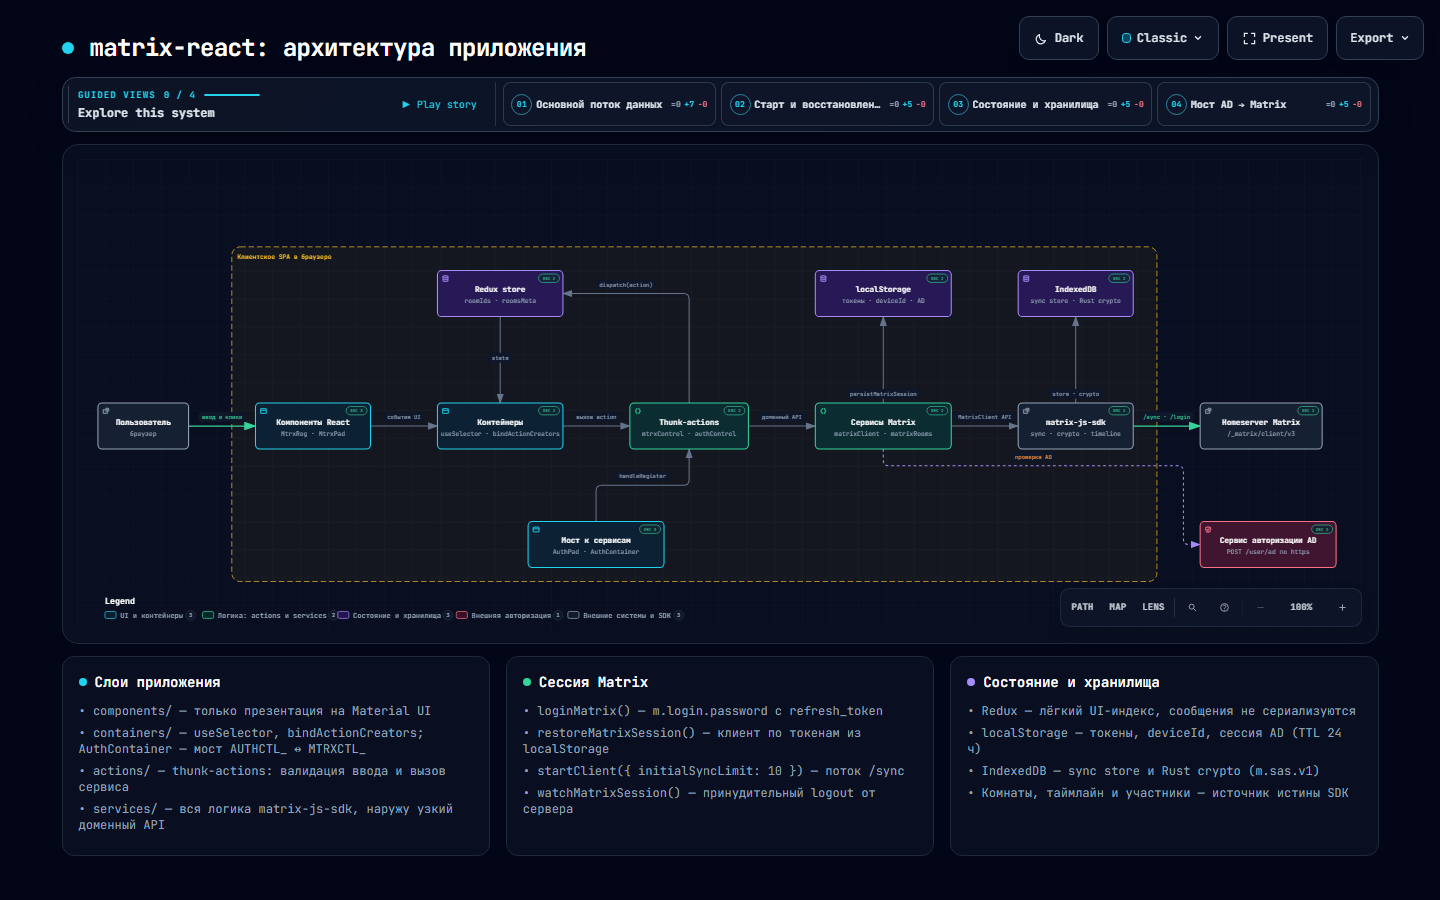
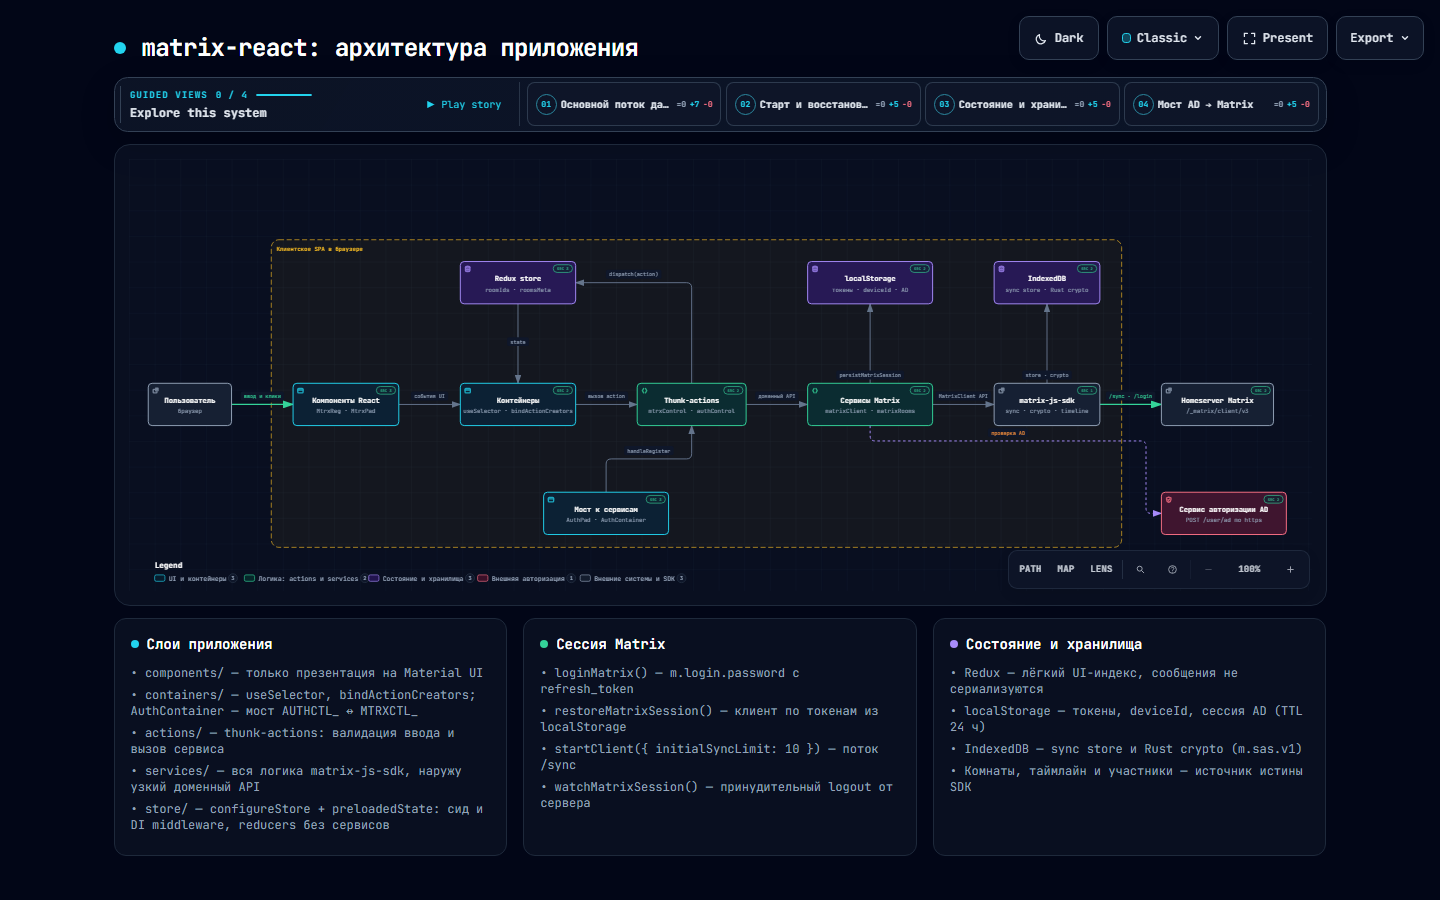
актуализировал документацию

diff --git a/docs/archify/matrix-react-architecture.html b/docs/archify/matrix-react-architecture.html
@@ -4841,7 +4841,7 @@
     </div>
 
     <script id="archify-guided-views-data" type="application/json">[{"id":"main-flow","label":"Основной поток данных","focus":["users","ui","containers","actions","services","sdk","homeserver"],"note":"Ввод пользователя проходит слои React → Redux → services → matrix-js-sdk и уходит на homeserver."},{"id":"session-start","label":"Старт и восстановление сессии","focus":["actions","services","storage","sdk","homeserver"],"note":"Вход по паролю или восстановление сохранённой сессии, затем /sync."},{"id":"state-and-storage","label":"Состояние и хранилища","focus":["store","containers","storage","idb","sdk"],"note":"Redux держит только UI-индекс, данные комнат живут в SDK и IndexedDB."},{"id":"bridge-ad-matrix","label":"Мост AD → Matrix","focus":["adauth","store","bridge","actions","services"],"note":"Сессия AD в Redux: AuthContainer берёт mtrx_login / mtrx_password и зовёт handleRegister."}]</script>
-    <script id="archify-source-evidence-data" type="application/json">{"schemaVersion":1,"verified":true,"repository":{"url":"https://github.com/ars-anosov/matrix-react","revision":"342a5cdc6bccf41a0ae6629d1aa7a3dcc6c840f1","shortRevision":"342a5cd"},"referenceCount":23,"nodes":{"ui":[{"path":"src/App.jsx","line":6,"label":"корневой layout","href":"https://github.com/ars-anosov/matrix-react/blob/342a5cdc6bccf41a0ae6629d1aa7a3dcc6c840f1/src/App.jsx#L6"},{"path":"src/components/MtrxPad.jsx","label":"чат","href":"https://github.com/ars-anosov/matrix-react/blob/342a5cdc6bccf41a0ae6629d1aa7a3dcc6c840f1/src/components/MtrxPad.jsx"},{"path":"src/components/MtrxReg.jsx","label":"вход","href":"https://github.com/ars-anosov/matrix-react/blob/342a5cdc6bccf41a0ae6629d1aa7a3dcc6c840f1/src/components/MtrxReg.jsx"}],"containers":[{"path":"src/containers/MtrxPadContainer.jsx","line":26,"href":"https://github.com/ars-anosov/matrix-react/blob/342a5cdc6bccf41a0ae6629d1aa7a3dcc6c840f1/src/containers/MtrxPadContainer.jsx#L26"},{"path":"src/containers/MtrxContainer.jsx","line":14,"href":"https://github.com/ars-anosov/matrix-react/blob/342a5cdc6bccf41a0ae6629d1aa7a3dcc6c840f1/src/containers/MtrxContainer.jsx#L14"}],"actions":[{"path":"src/actions/mtrxControlActions.js","line":117,"label":"handleRestoreSession","href":"https://github.com/ars-anosov/matrix-react/blob/342a5cdc6bccf41a0ae6629d1aa7a3dcc6c840f1/src/actions/mtrxControlActions.js#L117"},{"path":"src/actions/authControlActions.js","line":18,"label":"handleAdRegister","href":"https://github.com/ars-anosov/matrix-react/blob/342a5cdc6bccf41a0ae6629d1aa7a3dcc6c840f1/src/actions/authControlActions.js#L18"}],"store":[{"path":"src/reducers/mtrxControlRdcr.js","line":17,"label":"UI-индекс","href":"https://github.com/ars-anosov/matrix-react/blob/342a5cdc6bccf41a0ae6629d1aa7a3dcc6c840f1/src/reducers/mtrxControlRdcr.js#L17"},{"path":"src/store/configureStore.js","line":8,"href":"https://github.com/ars-anosov/matrix-react/blob/342a5cdc6bccf41a0ae6629d1aa7a3dcc6c840f1/src/store/configureStore.js#L8"}],"services":[{"path":"src/services/matrixClient.js","line":636,"label":"loginMatrix","href":"https://github.com/ars-anosov/matrix-react/blob/342a5cdc6bccf41a0ae6629d1aa7a3dcc6c840f1/src/services/matrixClient.js#L636"},{"path":"src/services/matrixRooms.js","line":285,"label":"watchRoomList","href":"https://github.com/ars-anosov/matrix-react/blob/342a5cdc6bccf41a0ae6629d1aa7a3dcc6c840f1/src/services/matrixRooms.js#L285"}],"sdk":[{"path":"src/services/matrixSdk.js","line":8,"label":"loadMatrixSdk","href":"https://github.com/ars-anosov/matrix-react/blob/342a5cdc6bccf41a0ae6629d1aa7a3dcc6c840f1/src/services/matrixSdk.js#L8"}],"homeserver":[{"path":"src/services/matrixClient.js","line":599,"label":"startClient","href":"https://github.com/ars-anosov/matrix-react/blob/342a5cdc6bccf41a0ae6629d1aa7a3dcc6c840f1/src/services/matrixClient.js#L599"},{"path":"src/services/matrixClient.js","line":643,"label":"loginRequest","href":"https://github.com/ars-anosov/matrix-react/blob/342a5cdc6bccf41a0ae6629d1aa7a3dcc6c840f1/src/services/matrixClient.js#L643"}],"storage":[{"path":"src/constants/storage.js","href":"https://github.com/ars-anosov/matrix-react/blob/342a5cdc6bccf41a0ae6629d1aa7a3dcc6c840f1/src/constants/storage.js"},{"path":"src/services/matrixClient.js","line":556,"label":"persistMatrixSession","href":"https://github.com/ars-anosov/matrix-react/blob/342a5cdc6bccf41a0ae6629d1aa7a3dcc6c840f1/src/services/matrixClient.js#L556"}],"idb":[{"path":"src/services/matrixClient.js","line":69,"label":"IndexedDBStore","href":"https://github.com/ars-anosov/matrix-react/blob/342a5cdc6bccf41a0ae6629d1aa7a3dcc6c840f1/src/services/matrixClient.js#L69"},{"path":"src/services/matrixClient.js","line":129,"label":"initRustCrypto","href":"https://github.com/ars-anosov/matrix-react/blob/342a5cdc6bccf41a0ae6629d1aa7a3dcc6c840f1/src/services/matrixClient.js#L129"}],"bridge":[{"path":"src/containers/AuthContainer.jsx","line":48,"label":"мост AUTHCTL_ ↔ MTRXCTL_","href":"https://github.com/ars-anosov/matrix-react/blob/342a5cdc6bccf41a0ae6629d1aa7a3dcc6c840f1/src/containers/AuthContainer.jsx#L48"},{"path":"src/actions/authControlActions.js","line":43,"label":"loginAd → mtrx_login","href":"https://github.com/ars-anosov/matrix-react/blob/342a5cdc6bccf41a0ae6629d1aa7a3dcc6c840f1/src/actions/authControlActions.js#L43"},{"path":"src/reducers/authTimeoutMiddleware.js","line":8,"label":"срок сессии AD","href":"https://github.com/ars-anosov/matrix-react/blob/342a5cdc6bccf41a0ae6629d1aa7a3dcc6c840f1/src/reducers/authTimeoutMiddleware.js#L8"}],"adauth":[{"path":"src/services/adAuth.js","line":70,"label":"loginAd","href":"https://github.com/ars-anosov/matrix-react/blob/342a5cdc6bccf41a0ae6629d1aa7a3dcc6c840f1/src/services/adAuth.js#L70"},{"path":"mock/vite-mock-api.js","label":"dev-mock","href":"https://github.com/ars-anosov/matrix-react/blob/342a5cdc6bccf41a0ae6629d1aa7a3dcc6c840f1/mock/vite-mock-api.js"}]}}</script>
+    <script id="archify-source-evidence-data" type="application/json">{"schemaVersion":1,"verified":true,"repository":{"url":"https://github.com/ars-anosov/matrix-react","revision":"005d4d61389776a172944241689231caea1c3635","shortRevision":"005d4d6"},"referenceCount":24,"nodes":{"ui":[{"path":"src/App.jsx","line":7,"label":"корневой layout","href":"https://github.com/ars-anosov/matrix-react/blob/005d4d61389776a172944241689231caea1c3635/src/App.jsx#L7"},{"path":"src/components/MtrxPad.jsx","label":"чат","href":"https://github.com/ars-anosov/matrix-react/blob/005d4d61389776a172944241689231caea1c3635/src/components/MtrxPad.jsx"},{"path":"src/components/MtrxReg.jsx","label":"вход","href":"https://github.com/ars-anosov/matrix-react/blob/005d4d61389776a172944241689231caea1c3635/src/components/MtrxReg.jsx"}],"containers":[{"path":"src/containers/MtrxPadContainer.jsx","line":26,"href":"https://github.com/ars-anosov/matrix-react/blob/005d4d61389776a172944241689231caea1c3635/src/containers/MtrxPadContainer.jsx#L26"},{"path":"src/containers/MtrxContainer.jsx","line":14,"href":"https://github.com/ars-anosov/matrix-react/blob/005d4d61389776a172944241689231caea1c3635/src/containers/MtrxContainer.jsx#L14"}],"actions":[{"path":"src/actions/mtrxControlActions.js","line":120,"label":"handleRestoreSession","href":"https://github.com/ars-anosov/matrix-react/blob/005d4d61389776a172944241689231caea1c3635/src/actions/mtrxControlActions.js#L120"},{"path":"src/actions/authControlActions.js","line":18,"label":"handleAdRegister","href":"https://github.com/ars-anosov/matrix-react/blob/005d4d61389776a172944241689231caea1c3635/src/actions/authControlActions.js#L18"}],"store":[{"path":"src/reducers/mtrxControlRdcr.js","line":17,"label":"UI-индекс","href":"https://github.com/ars-anosov/matrix-react/blob/005d4d61389776a172944241689231caea1c3635/src/reducers/mtrxControlRdcr.js#L17"},{"path":"src/store/configureStore.js","line":12,"label":"createStore + DI","href":"https://github.com/ars-anosov/matrix-react/blob/005d4d61389776a172944241689231caea1c3635/src/store/configureStore.js#L12"},{"path":"src/store/preloadedState.js","line":7,"label":"сид uriAdAuth","href":"https://github.com/ars-anosov/matrix-react/blob/005d4d61389776a172944241689231caea1c3635/src/store/preloadedState.js#L7"}],"services":[{"path":"src/services/matrixClient.js","line":636,"label":"loginMatrix","href":"https://github.com/ars-anosov/matrix-react/blob/005d4d61389776a172944241689231caea1c3635/src/services/matrixClient.js#L636"},{"path":"src/services/matrixRooms.js","line":285,"label":"watchRoomList","href":"https://github.com/ars-anosov/matrix-react/blob/005d4d61389776a172944241689231caea1c3635/src/services/matrixRooms.js#L285"}],"sdk":[{"path":"src/services/matrixSdk.js","line":8,"label":"loadMatrixSdk","href":"https://github.com/ars-anosov/matrix-react/blob/005d4d61389776a172944241689231caea1c3635/src/services/matrixSdk.js#L8"}],"homeserver":[{"path":"src/services/matrixClient.js","line":599,"label":"startClient","href":"https://github.com/ars-anosov/matrix-react/blob/005d4d61389776a172944241689231caea1c3635/src/services/matrixClient.js#L599"},{"path":"src/services/matrixClient.js","line":643,"label":"loginRequest","href":"https://github.com/ars-anosov/matrix-react/blob/005d4d61389776a172944241689231caea1c3635/src/services/matrixClient.js#L643"}],"storage":[{"path":"src/constants/storage.js","href":"https://github.com/ars-anosov/matrix-react/blob/005d4d61389776a172944241689231caea1c3635/src/constants/storage.js"},{"path":"src/services/matrixClient.js","line":556,"label":"persistMatrixSession","href":"https://github.com/ars-anosov/matrix-react/blob/005d4d61389776a172944241689231caea1c3635/src/services/matrixClient.js#L556"}],"idb":[{"path":"src/services/matrixClient.js","line":69,"label":"IndexedDBStore","href":"https://github.com/ars-anosov/matrix-react/blob/005d4d61389776a172944241689231caea1c3635/src/services/matrixClient.js#L69"},{"path":"src/services/matrixClient.js","line":129,"label":"initRustCrypto","href":"https://github.com/ars-anosov/matrix-react/blob/005d4d61389776a172944241689231caea1c3635/src/services/matrixClient.js#L129"}],"bridge":[{"path":"src/containers/AuthContainer.jsx","line":48,"label":"мост AUTHCTL_ ↔ MTRXCTL_","href":"https://github.com/ars-anosov/matrix-react/blob/005d4d61389776a172944241689231caea1c3635/src/containers/AuthContainer.jsx#L48"},{"path":"src/actions/authControlActions.js","line":43,"label":"loginAd → mtrx_login","href":"https://github.com/ars-anosov/matrix-react/blob/005d4d61389776a172944241689231caea1c3635/src/actions/authControlActions.js#L43"},{"path":"src/reducers/authTimeoutMiddleware.js","line":9,"label":"срок сессии AD (DI)","href":"https://github.com/ars-anosov/matrix-react/blob/005d4d61389776a172944241689231caea1c3635/src/reducers/authTimeoutMiddleware.js#L9"}],"adauth":[{"path":"src/services/adAuth.js","line":70,"label":"loginAd","href":"https://github.com/ars-anosov/matrix-react/blob/005d4d61389776a172944241689231caea1c3635/src/services/adAuth.js#L70"},{"path":"mock/vite-mock-api.js","label":"dev-mock","href":"https://github.com/ars-anosov/matrix-react/blob/005d4d61389776a172944241689231caea1c3635/mock/vite-mock-api.js"}]}}</script>
     <div class="guided-views no-print" id="guided-views" hidden aria-label="Guided diagram views">
       <button id="guided-view-prev" type="button" aria-label="Previous guided view" title="Previous guided view ([)">&#8592;</button>
       <div class="guided-view-copy">
@@ -5346,6 +5346,7 @@
           <li>&bull; containers/ — useSelector, bindActionCreators; AuthContainer — мост AUTHCTL_ ↔ MTRXCTL_</li>
           <li>&bull; actions/ — thunk-actions: валидация ввода и вызов сервиса</li>
           <li>&bull; services/ — вся логика matrix-js-sdk, наружу узкий доменный API</li>
+          <li>&bull; store/ — configureStore + preloadedState: сид и DI middleware, reducers без сервисов</li>
         </ul>
       </div>
 

diff --git a/docs/STATE.md b/docs/STATE.md
@@ -38,6 +38,31 @@ flowchart LR
   ADSV -->|"POST login + password"| ADAPI
 ```
 
+## Инициализация store
+
+Сервисы со стором сводит только слой стора — reducers и middleware сервисов не импортируют и
+остаются чистыми:
+
+```mermaid
+flowchart LR
+  ADSV["adAuth"]
+  PS["store/preloadedState.js<br/>сид: uriAdAuth ← getStoredAdAuthUri()"]
+  CS["store/configureStore.js<br/>createStore(rootReducer, preloadedState)"]
+  MW["authTimeoutMiddleware<br/>createAuthTimeoutMiddleware({ isSessionExpired, clearSession })"]
+
+  ADSV -->|"getStoredAdAuthUri"| PS
+  PS -->|"preloadedState"| CS
+  CS -->|"инжект зависимостей"| MW
+```
+
+- `authControlRdcr` экспортирует чистый `initialState` (только UI-дефолты, без чтения сервисов);
+  `preloadedState.js` собирает из него срез и подставляет сохранённый `uriAdAuth`. Срез
+  передаётся целиком: `combineReducers` подменяет его, а не мержит с `initialState`.
+- `configureStore(preloadedState = getPreloadedState())` — единственное место, где стор сходится
+  с сервисами: сид и зависимости `authTimeoutMiddleware` (`isAdAuthSessionExpired` →
+  `isSessionExpired`, `clearAdAuthSession` → `clearSession`).
+- Тот же `configureStore()` без аргументов вызывает `main.jsx`.
+
 ## Сценарии работы
 
 ```mermaid
@@ -190,7 +215,7 @@ sequenceDiagram
   Note over AuthCont: displayAuthPad=true на success → рендер AuthPad (тумблер откл, без матричной пары — текст)
   User->>AuthPad: Клик по тумблеру (откл)
   AuthPad->>AuthCont: onToggleMtrx()
-  AuthCont->>MtrxAct: handleRegister({mtrx_login, mtrx_password, uriMatrix})
+  AuthCont->>MtrxAct: handleRegister({login: mtrx_login, password: mtrx_password, uriMatrix})
   MtrxAct->>Dispatch: MTRXCTL_SUBMIT_REQUEST → SUCCESS/ERROR
   Dispatch-->>AuthPad: SUCCESS → зелёный тумблер (authorized)
   Dispatch-->>AuthCont: responseData.user_id активной сессии
